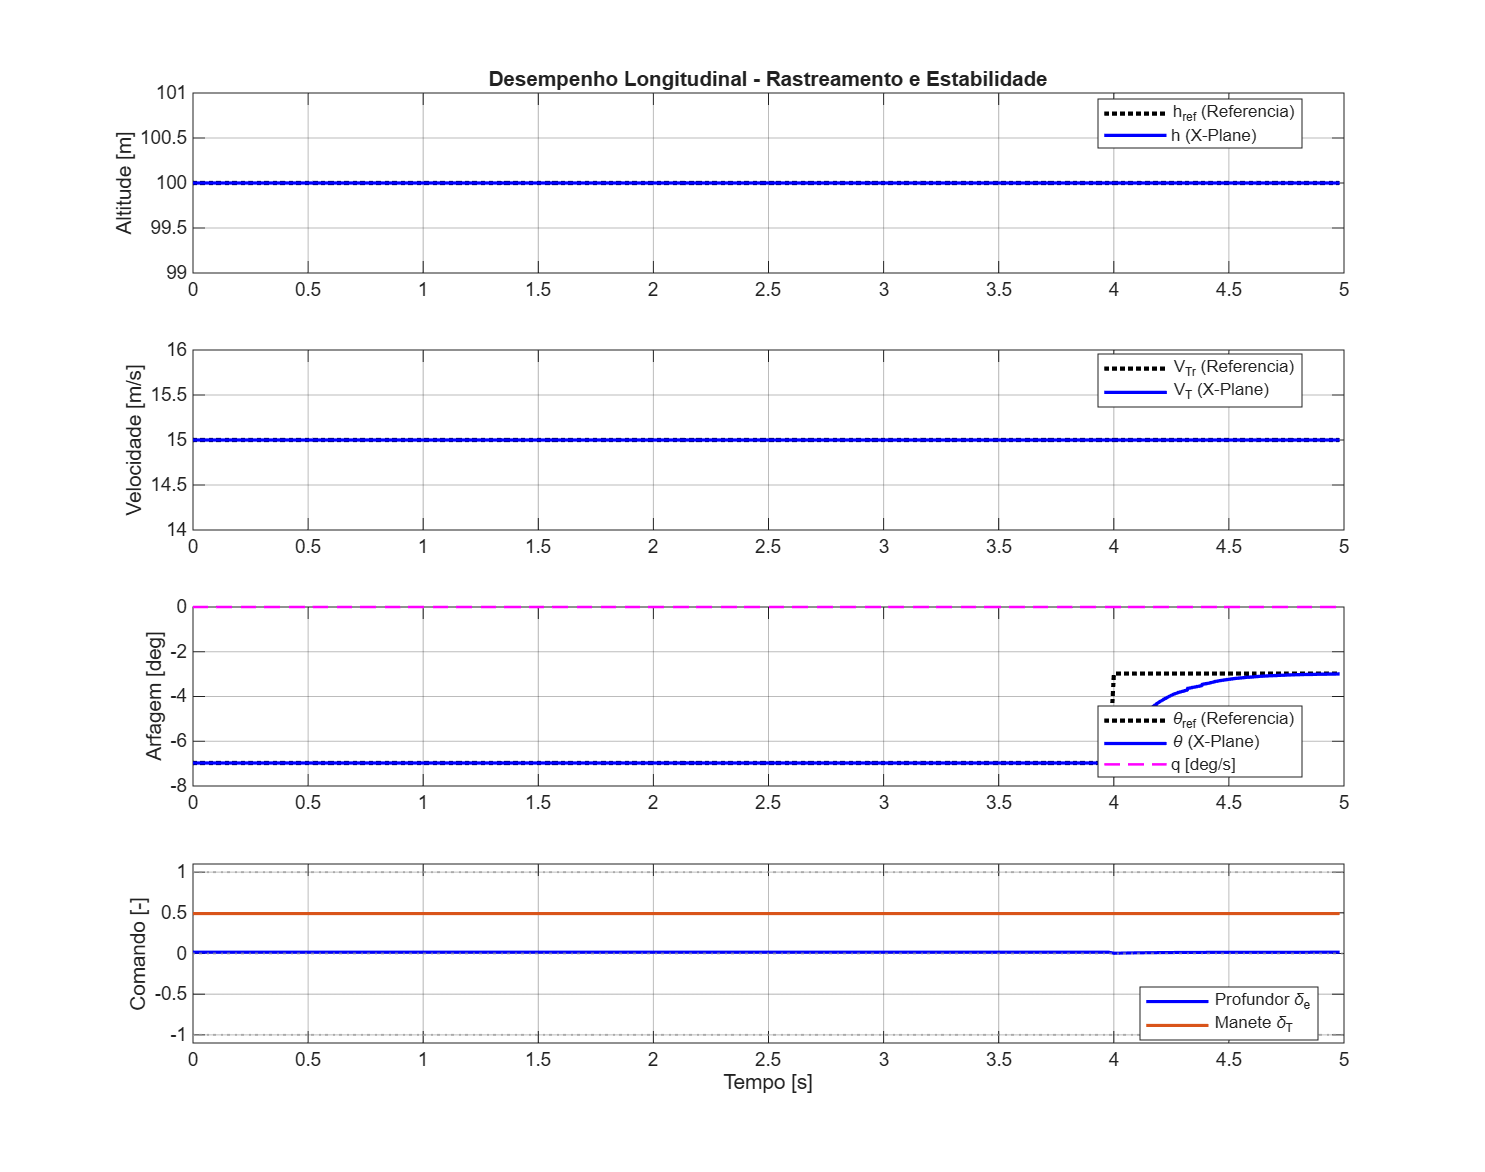
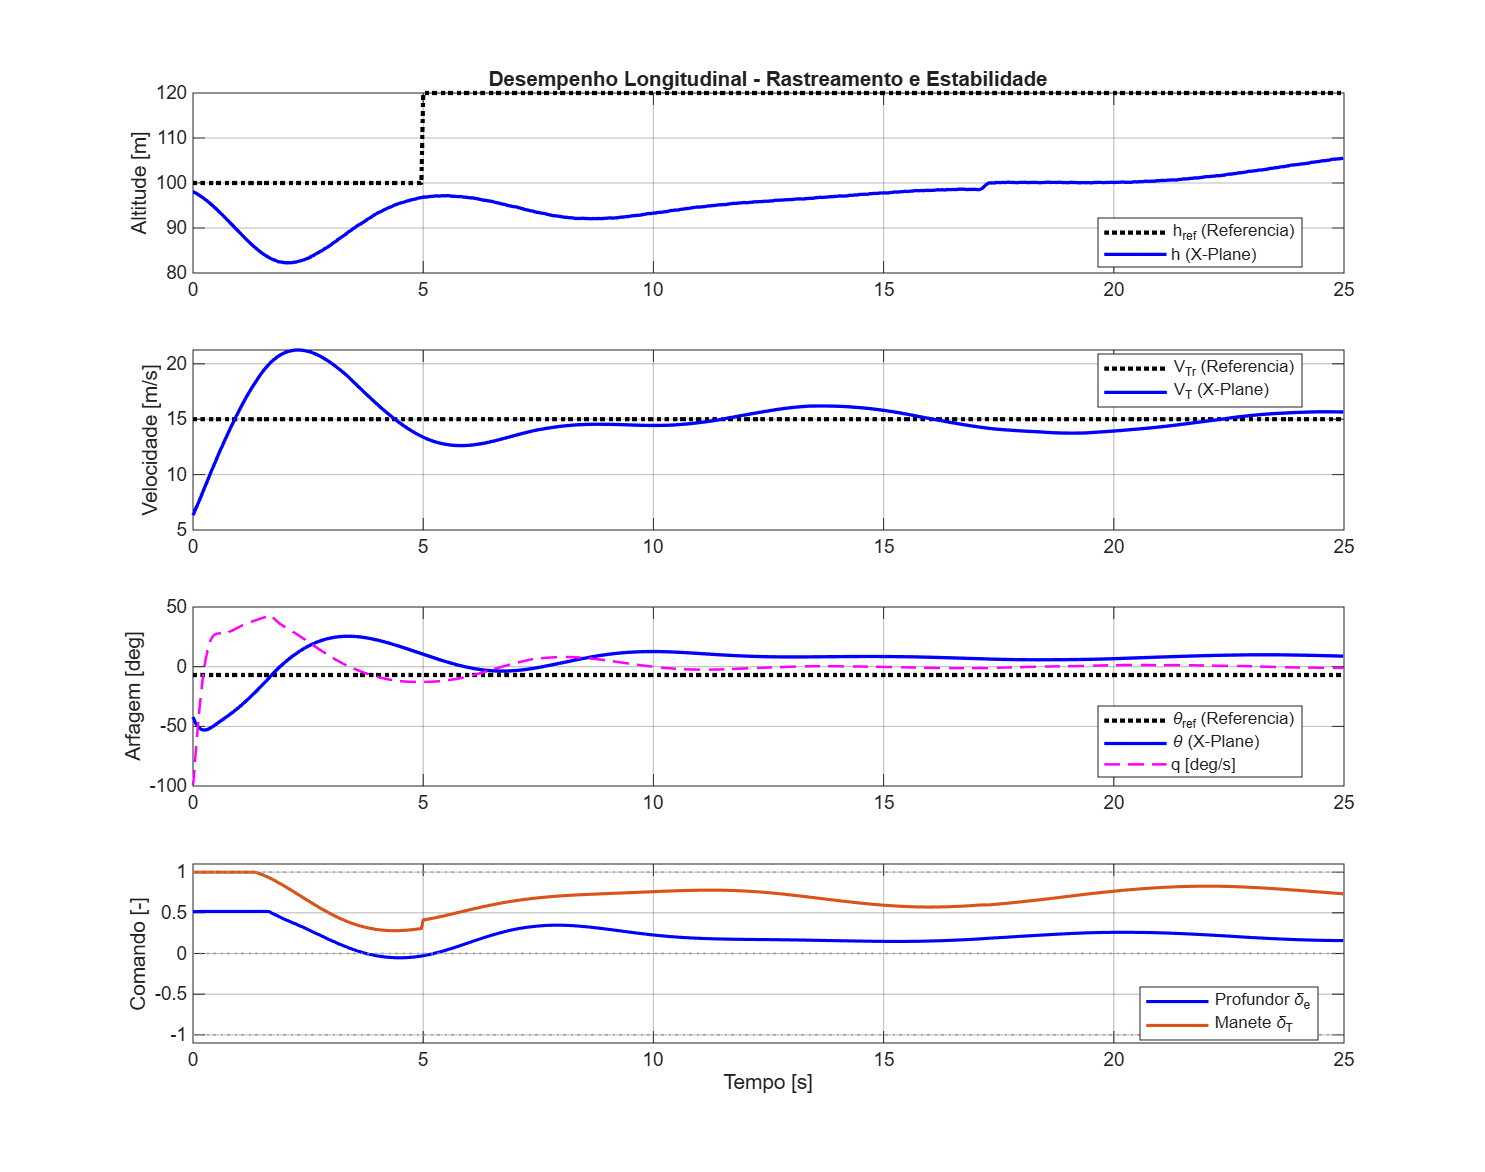
fix: inject linear velocity vectors on trim positioning and prioritize direct pitch reference in firmware

diff --git a/bridge_hil/xplane_udp.py b/bridge_hil/xplane_udp.py
@@ -176,6 +176,7 @@ class XPlaneUDP:
     def init_trim_flight(self, alt_m: float = 100.0, vt_ms: float = 15.0):
         """Inicializa a aeronave em voo estabilizado no ponto de equilíbrio (Trim)."""
         import time
+        import math
         print(f"[XPlaneUDP] Posicionando aeronave em voo: Altitude={alt_m:.1f} m AGL, Velocidade={vt_ms:.1f} m/s...", flush=True)
         if self.mode == "xpc" and self.xpc_client is not None:
             try:
@@ -189,23 +190,38 @@ class XPlaneUDP:
                 ])
                 lat = pos_vals[0][0] if (pos_vals and len(pos_vals[0]) > 0 and pos_vals[0][0] != 0.0) else 47.25884
                 lon = pos_vals[1][0] if (pos_vals and len(pos_vals[1]) > 0 and pos_vals[1][0] != 0.0) else 11.33107
-                elev = pos_vals[2][0] if (pos_vals and len(pos_vals[2]) > 0) else 583.67
+                elev = pos_vals[2][0] if (pos_vals and len(pos_vals[2]) > 0 and pos_vals[2][0] != 0.0) else 583.67
                 y_agl = pos_vals[3][0] if (pos_vals and len(pos_vals[3]) > 0) else 0.0
                 psi = pos_vals[4][0] if (pos_vals and len(pos_vals[4]) > 0 and pos_vals[4][0] != 0.0) else 81.0
 
                 grnd_elev = max(0.0, elev - y_agl)
                 target_alt_msl = grnd_elev + alt_m
 
-                # 2) Posiciona no ar em altitude AGL com ângulo de arfagem de trim (-6.97 deg)
-                self.xpc_client.sendPOSI([lat, lon, target_alt_msl, -6.97, 0.0, psi, 1.0])
+                # 2) Posiciona no ar em altitude AGL com ângulo de arfagem de trim (-6.97 deg) e recolhe trem
+                self.xpc_client.sendPOSI([lat, lon, target_alt_msl, -6.97, 0.0, psi, 0.0])
                 time.sleep(0.05)
 
-                # 3) Desativa freio de estacionamento, ativa luz diurna e visão externa
+                # 3) Injeta os vetores de velocidade para sustentar o voo (X=Leste, Y=Cima, Z=Sul no X-Plane)
+                psi_rad = psi * DEG_TO_RAD
+                theta_rad = -6.97 * DEG_TO_RAD
+                vx = vt_ms * math.sin(psi_rad) * math.cos(theta_rad)
+                vy = vt_ms * math.sin(theta_rad)
+                vz = -vt_ms * math.cos(psi_rad) * math.cos(theta_rad)
+
+                self.xpc_client.sendDREF("sim/flightmodel/position/local_vx", vx)
+                self.xpc_client.sendDREF("sim/flightmodel/position/local_vy", vy)
+                self.xpc_client.sendDREF("sim/flightmodel/position/local_vz", vz)
+                self.xpc_client.sendDREF("sim/flightmodel/position/true_airspeed", vt_ms)
+                self.xpc_client.sendDREF("sim/flightmodel/position/groundspeed", vt_ms)
+
+                # 4) Desativa freio de estacionamento, ativa visão externa e tempo zulu
                 self.xpc_client.sendDREF("sim/cockpit2/controls/parking_brake_ratio", 0.0)
                 self.xpc_client.sendDREF("sim/graphics/view/view_type", 1018)  # Chase view
                 self.xpc_client.sendDREF("sim/time/zulu_time_sec", 43200.0)     # 12:00 Zulu
 
-                # 4) Envia comandos de trim para superfícies e manete
+                # 5) Inicializa motor em rotação de trim e envia comandos de superfícies
+                self.xpc_client.sendDREF("sim/flightmodel/engine/ENGN_thro", [0.4914] * 8)
+                self.xpc_client.sendDREF("sim/flightmodel/engine/ENGN_N1_", [75.0] * 8)
                 self.send_controls(0.0155, 0.4914, 0.0, 0.0)
                 time.sleep(0.1)
             except Exception as e:

diff --git a/scripts_matlab/parameters.m b/scripts_matlab/parameters.m
@@ -130,7 +130,7 @@ gains.ff.K_phi2thr   =  0.120;   % Compensador de arrasto induzido (Rolamento ->
 gains.ff.K_phi2rud   =  0.168;   % Compensador de guinada adversa (Rolamento -> Leme)
 
 %% =========================================================================
-%% 4) PADRONIZAÇÃO VISUAL DOS GRÁFICOS (Regra: Referência SEMPRE em Preto Pontilhado)
+%% 4) PADRONIZAÇÃO VISUAL DOS GRÁFICOS
 %% =========================================================================
 estilo.ref_color       = 'k';       % Cor preta para referências
 estilo.ref_style       = ':';       % Linha pontilhada estrita
